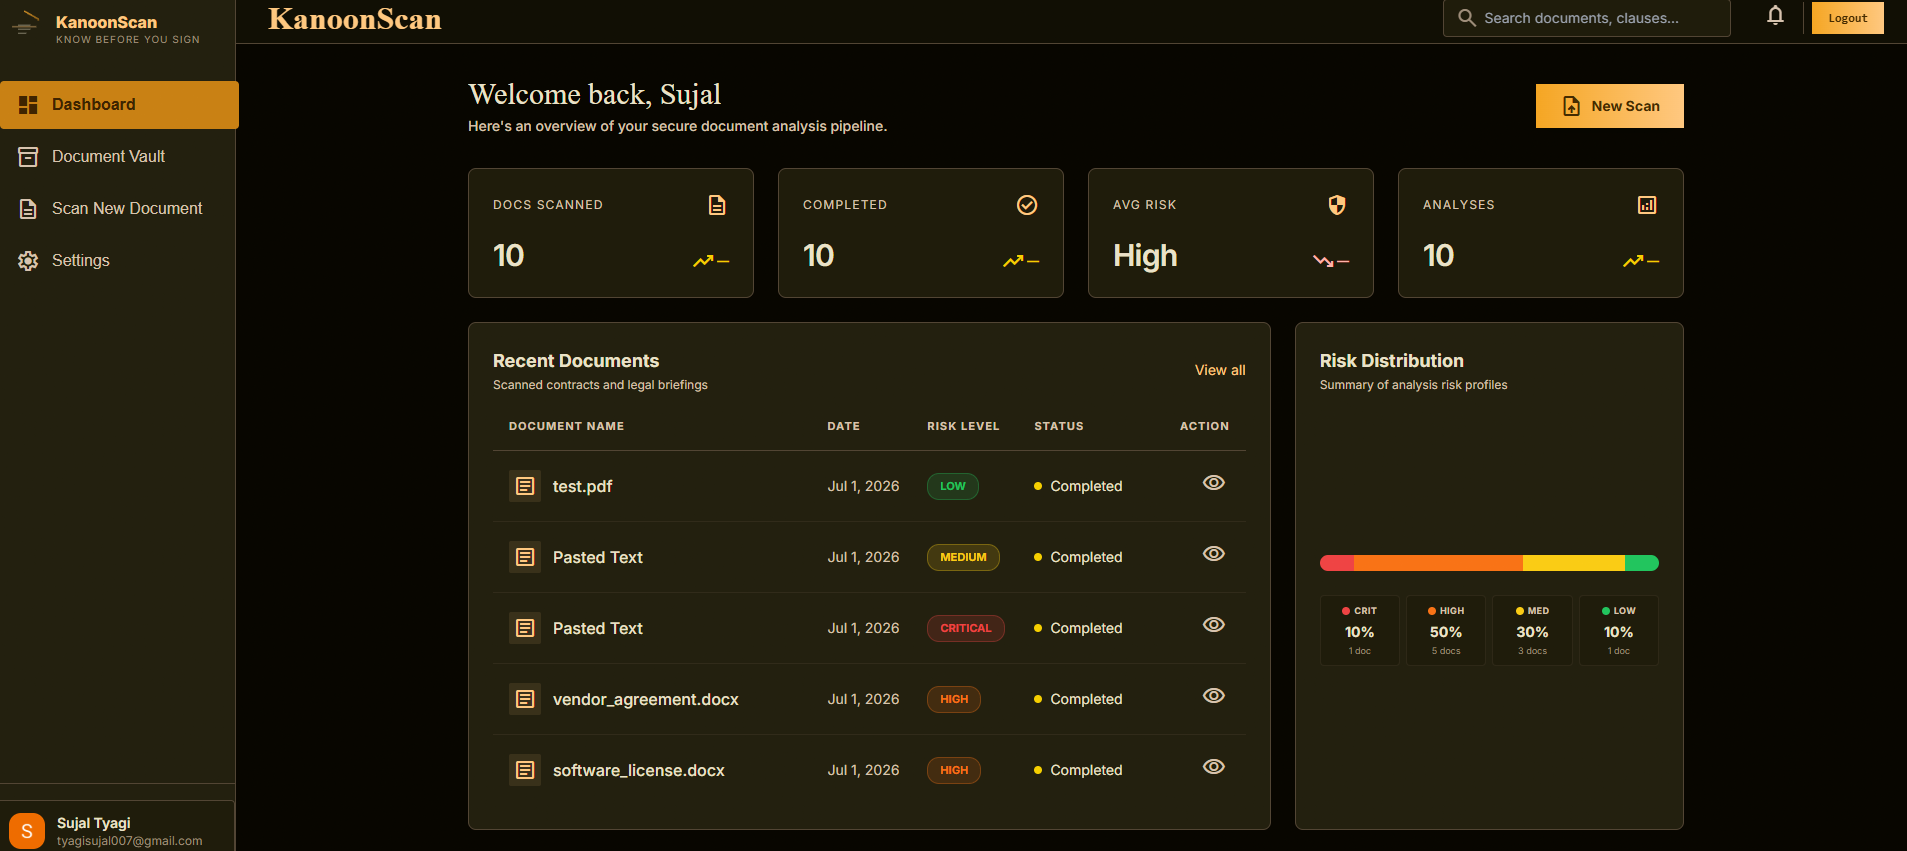
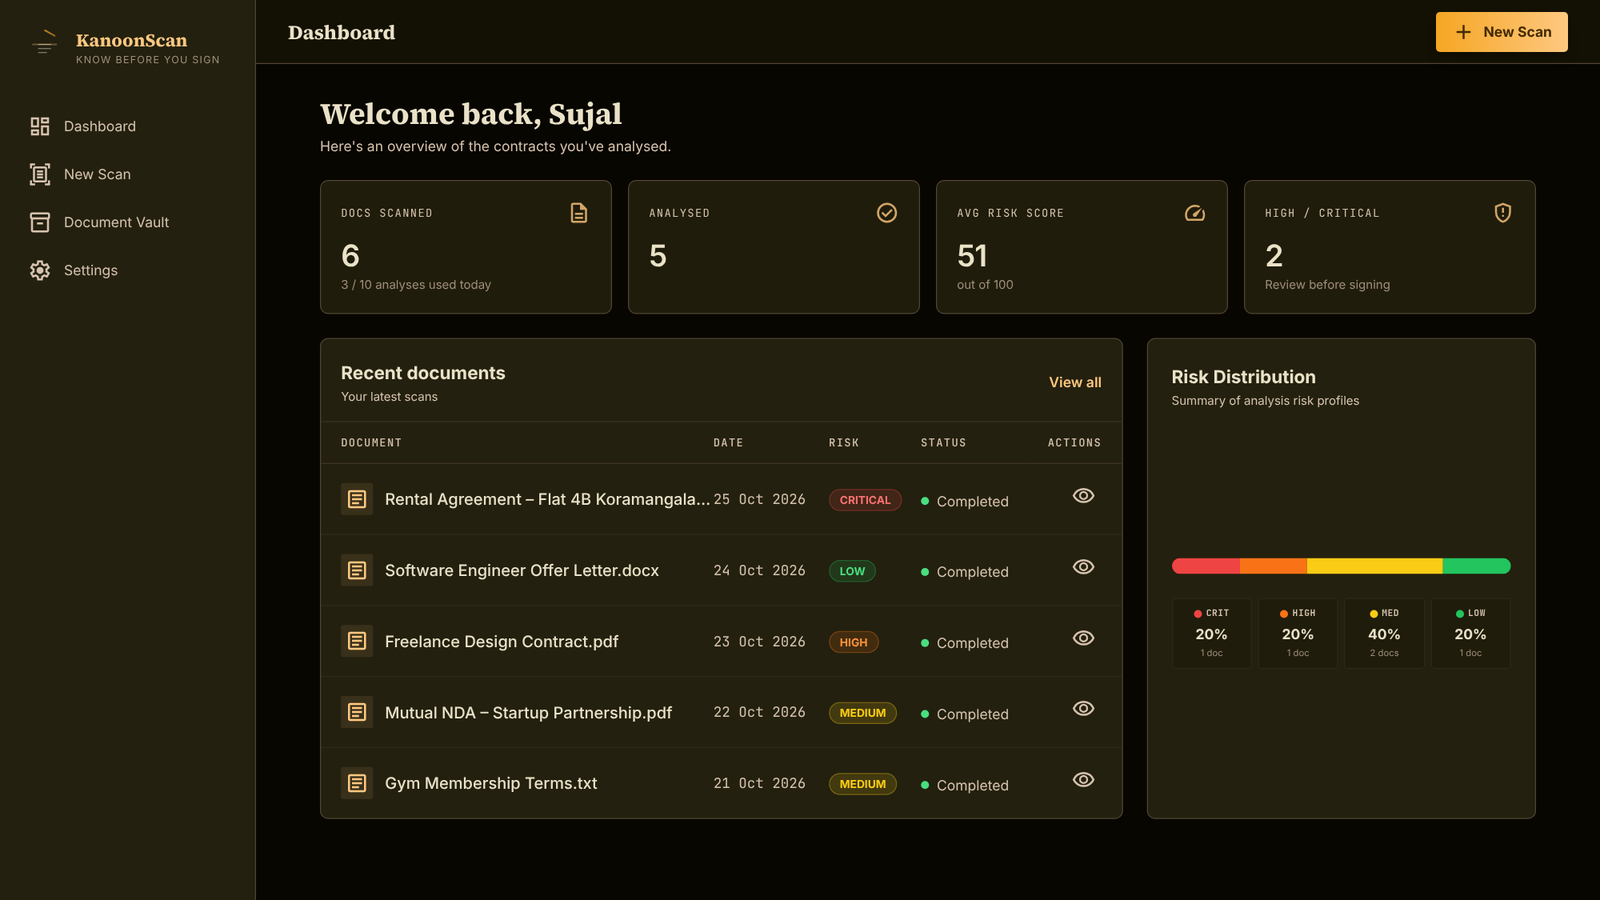
Rewrite README and refresh screenshots; add MIT license

diff --git a/README.md b/README.md
@@ -1,118 +1,193 @@
 # ⚖ KanoonScan
 
-> **Know Before You Sign**
-
-An AI-powered Legal Contract Analyzer that helps users understand legal agreements by identifying key clauses, assessing contractual risks, generating plain-English summaries, and producing professional legal reports.
+> **Know Before You Sign** — an AI contract analyser that flags risky clauses, explains them in plain English and tells you what to ask for before you sign.
 
 <p align="center">
-  <a href="https://kanoonscan.vercel.app/">
-    <img src="https://img.shields.io/badge/DEMO-LIVE-green?style=for-the-badge" alt="Demo Live" />
-  </a>
-  <img src="https://img.shields.io/badge/NEXT.JS-14-black?style=for-the-badge&logo=next.js" alt="Next.js" />
-  <img src="https://img.shields.io/badge/TYPESCRIPT-blue?style=for-the-badge&logo=typescript" alt="TypeScript" />
+  <a href="https://kanoonscan.vercel.app/"><img src="https://img.shields.io/badge/LIVE_DEMO-kanoonscan.vercel.app-f5a623?style=for-the-badge" alt="Live demo" /></a>
+</p>
+<p align="center">
+  <img src="https://img.shields.io/badge/Next.js_14-black?style=flat-square&logo=next.js" alt="Next.js" />
+  <img src="https://img.shields.io/badge/TypeScript-3178C6?style=flat-square&logo=typescript&logoColor=white" alt="TypeScript" />
+  <img src="https://img.shields.io/badge/MongoDB-47A248?style=flat-square&logo=mongodb&logoColor=white" alt="MongoDB" />
+  <img src="https://img.shields.io/badge/Clerk-6C47FF?style=flat-square&logo=clerk&logoColor=white" alt="Clerk" />
+  <img src="https://img.shields.io/badge/Tailwind_CSS-06B6D4?style=flat-square&logo=tailwindcss&logoColor=white" alt="Tailwind CSS" />
+  <img src="https://img.shields.io/badge/Groq_%7C_Gemini-AI-f5a623?style=flat-square" alt="Groq and Gemini" />
 </p>
 
----
-
-## 📸 Screenshots
-### Landing Page
-
-![Landing Page](public/screenshots/landing.png)
-
----
-### Dashboard
-
-![Dashboard](public/screenshots/dashboard.png)
+![KanoonScan landing page](public/screenshots/landing.png)
 
 ---
 
-### Contract Analysis
+## 📖 Overview
 
-![Analysis](public/screenshots/analysis.png)
+Most people sign rental agreements, offer letters and NDAs without reading every clause. KanoonScan reads the contract for you:
 
----
+1. **Upload** a PDF, DOCX or TXT file — or paste the text.
+2. **AI analysis** rates every clause from low to critical risk and gives the whole document a 0–100 risk score.
+3. **Review** a plain-English summary, who each clause favours, why it's risky and a suggested fairer alternative — then ask follow-up questions in chat.
 
-### Document Vault
-
-![Document Vault](public/screenshots/vault.png)
+Document text is encrypted at rest, and you can delete any document — or your whole account — at any time.
 
 ---
 
 ## ✨ Features
 
-* **AI Analysis**: Instantly detects and analyzes key legal clauses.
-* **Format Support**: Upload PDF, DOCX, and TXT agreements.
-* **Risk Scoring**: Provides a 0-100 score and assigns a low/medium/high/critical risk category.
-* **Plain English Summaries**: Translates complex legalese into clear text.
-* **Smart Actions**: Get recommendations, who benefits, and who is at risk.
-* **Document Vault**: Save, manage, and delete analyzed contracts safely.
-* **PDF Reports**: Export results into clean, print-friendly reports.
-* **Shareable Links**: Turn on a read-only public link for any report (document text is never exposed), and turn it off any time.
-* **Fair-use Limits**: Per-user daily limits on AI analyses and chat messages protect the API budget.
+| | Feature | Details |
+|---|---|---|
+| 🔍 | **Clause-level risk analysis** | Every risky clause is extracted with its original text, risk level (low → critical), explanation, who benefits / who's at risk and a suggested fix |
+| 📊 | **Risk score & verdict** | 0–100 score, risk breakdown by category and an overall verdict (e.g. *Seek Legal Advice*) |
+| 🗣 | **Plain-English summary** | Legalese rewritten into short, readable explanations |
+| 🧾 | **Key details extraction** | Parties, dates, rent/payment terms, notice periods, renewal and governing law |
+| 💬 | **Chat with your contract** | Ask "Can I terminate early?" and get answers grounded in the document; history is saved |
+| ✍ | **Fairer clause drafts** | Generate an improved alternative for any risky clause |
+| 🔗 | **Shareable reports** | Turn on a read-only public link (document text is never exposed) and turn it off any time |
+| 📄 | **PDF export** | Download a clean, print-friendly report |
+| 🗂 | **Document vault** | Search, filter by risk, sort and delete past scans |
+| 🛡 | **Fair-use limits** | Per-user daily limits on AI analyses and chat messages |
+| 📱 | **Responsive UI** | Works on desktop and mobile |
+
+---
+
+## 📸 Screenshots
+
+### Dashboard
+![Dashboard](public/screenshots/dashboard.png)
+
+### Contract Analysis
+![Contract analysis report](public/screenshots/analysis.png)
+
+### Document Vault
+![Document vault](public/screenshots/vault.png)
 
 ---
 
 ## 🛠 Tech Stack
 
-- **Frontend:** Next.js 14, TypeScript, Tailwind CSS
-- **Backend:** Next.js App Router
-- **Database:** MongoDB
-- **Authentication:** Clerk
-- **AI Models:** Google Gemini, Groq (Llama)
-- **Document Parsing:** PDF.js, Mammoth
-- **File Uploads:** UploadThing
+| Layer | Technology |
+|---|---|
+| Framework | Next.js 14 (App Router), React 18, TypeScript |
+| Styling | Tailwind CSS, Three.js (landing animation) |
+| Auth | Clerk (sign-up, login, account management) |
+| Database | MongoDB Atlas (native driver, `$jsonSchema` validation) |
+| AI | Groq (Llama 3.3 70B and others) with Google Gemini 2.5 fallback |
+| Document parsing | unpdf (serverless pdf.js), Mammoth (DOCX) |
+| Hosting | Vercel |
 
 ---
 
-## 📊 Risk Levels
+## 🧠 How It Works
 
-| Level | Description |
-|--------|-------------|
-| 🟢 Low | Standard commercial terms with minimal legal concerns |
-| 🟡 Medium | Clauses that should be reviewed before signing |
-| 🟠 High | Significant contractual risks requiring attention |
-| 🔴 Critical | Serious legal concerns requiring professional review |
-
----
-
-## 🚀 Getting Started
-
-```bash
-git clone https://github.com/Sujal-tyagi17/Kanoon-Scan.git
-cd Kanoon-Scan
-npm install
-cp .env.example .env.local   # fill in the values
-npm run dev
+```mermaid
+flowchart LR
+    A[Upload PDF / DOCX / TXT<br/>or paste text] --> B[Extract text<br/>unpdf · mammoth]
+    B --> C[Encrypt AES-256<br/>store in MongoDB]
+    C --> D{AI fallback chain}
+    D -->|1| E[Groq models]
+    D -->|2| F[Gemini models]
+    E --> G[Validate & normalise JSON]
+    F --> G
+    G --> H[Report: score, verdict,<br/>clauses, categories]
+    H --> I[Chat · Drafts · Share · Export]
 ```
 
-| Variable | Purpose |
-|----------|---------|
-| `NEXT_PUBLIC_CLERK_PUBLISHABLE_KEY`, `CLERK_SECRET_KEY` | Clerk authentication |
-| `DATABASE_URL` | MongoDB connection string (use the `mongodb+srv://` form, with a database name) |
-| `GROQ_API_KEY`, `GEMINI_API_KEY` | AI providers (at least one required) |
-| `ENCRYPTION_KEY` | Secret for encrypting document text at rest — set once, never change |
-| `WEBHOOK_SECRET` | Optional Clerk webhook secret |
-| `GROQ_MODELS`, `GEMINI_MODELS` | Optional comma-separated model overrides |
-| `DAILY_ANALYSIS_LIMIT`, `DAILY_CHAT_LIMIT` | Optional per-user daily limits (default 10 and 50, reset at midnight IST) |
+- **Resilient AI:** each model is tried in turn; any failure (rate limit, request too large, retired model) moves on to the next. Long documents go to Gemini first because of its larger context window. Model names can be changed with environment variables, without code changes.
+- **Consistent output:** the AI's JSON is parsed defensively, risk labels are normalised to `LOW / MEDIUM / HIGH / CRITICAL`, and scores are clamped to 0–100 before saving.
+- **Fair use:** daily limits are counted atomically in MongoDB, reset at midnight IST, and refunded automatically when the AI call fails.
 
-`GET /api/health` reports which variables are set (yes/no only) and whether MongoDB is reachable.
+---
+
+## 🔐 Security & Privacy
+
+- **Authentication** with Clerk; every API route checks the session and that the user owns the requested document.
+- **Encryption at rest:** document text is encrypted with AES-256 before it's stored, and decrypted only in memory.
+- **Public links** use random 144-bit tokens, show only the report (never the full document) and are excluded from search engines.
+- **Right to erasure:** deleting your account removes all documents, analyses, chats, logs and your Clerk login.
+- **Audit log** of uploads, analyses, deletions and sharing changes.
 
 ---
 
 ## 🗄 Database Schema
 
-MongoDB is schemaless, so the schema is enforced with `$jsonSchema` validators and indexes defined in [`lib/db/schema.ts`](lib/db/schema.ts). They are applied automatically on the first connection; you can also run [`scripts/mongo-schema.js`](scripts/mongo-schema.js) in mongosh.
+MongoDB is schemaless, so the schema is enforced with `$jsonSchema` validators and indexes defined in [`lib/db/schema.ts`](lib/db/schema.ts). They're applied automatically on the first connection; you can also run [`scripts/mongo-schema.js`](scripts/mongo-schema.js) in mongosh.
 
 | Collection | Key fields | Indexes |
-|------------|-----------|---------|
+|---|---|---|
 | `users` | clerkId, email, name | clerkId (unique) |
 | `documents` | userId, name, type, rawText (encrypted), status | userId + createdAt |
-| `analyses` | documentId, riskScore (0–100), riskLevel, summary, verdict, keyInformation | documentId (unique) |
+| `analyses` | documentId, riskScore (0–100), riskLevel, summary, verdict, keyInformation, shareToken | documentId (unique), shareToken (unique) |
 | `clauses` | analysisId, title, originalText, riskLevel, suggestion, isSaved | analysisId + position |
 | `riskCategories` | analysisId, name, score, level | analysisId |
 | `chats` | analysisId, role (USER/ASSISTANT), message | analysisId + createdAt |
-| `audit_logs` | userId, action, details | userId + createdAt |
 | `rate_limits` | key (user:action:day), count, expiresAt | key (unique), expiresAt (TTL) |
+| `audit_logs` | userId, action, details | userId + createdAt |
+
+---
+
+## 🚀 Getting Started
+
+### Prerequisites
+- Node.js 18+
+- A [Clerk](https://clerk.com) application
+- A [MongoDB Atlas](https://www.mongodb.com/atlas) cluster (the free tier works)
+- An API key for [Groq](https://console.groq.com) and/or [Google AI Studio (Gemini)](https://aistudio.google.com)
+
+### Setup
+
+```bash
+git clone https://github.com/Sujal-tyagi17/Kanoon-Scan.git
+cd Kanoon-Scan
+npm install
+cp .env.example .env.local   # then fill in the values
+npm run dev                  # http://localhost:3000
+```
+
+### Environment variables
+
+| Variable | Required | Purpose |
+|---|---|---|
+| `NEXT_PUBLIC_CLERK_PUBLISHABLE_KEY` | ✅ | Clerk publishable key |
+| `CLERK_SECRET_KEY` | ✅ | Clerk secret key |
+| `DATABASE_URL` | ✅ | MongoDB connection string — use the `mongodb+srv://` form and include a database name, e.g. `…mongodb.net/kanoonscan?retryWrites=true&w=majority` |
+| `GROQ_API_KEY` / `GEMINI_API_KEY` | ✅ (at least one) | AI providers |
+| `ENCRYPTION_KEY` | ✅ | Long random secret for encrypting document text. Generate with `node -e "console.log(require('crypto').randomBytes(32).toString('hex'))"`. **Never change it once data exists.** |
+| `WEBHOOK_SECRET` | – | Clerk webhook signing secret (optional — users are also created on first sign-in) |
+| `GROQ_MODELS` / `GEMINI_MODELS` | – | Comma-separated model overrides |
+| `DAILY_ANALYSIS_LIMIT` / `DAILY_CHAT_LIMIT` | – | Per-user daily limits (default 10 and 50) |
+
+`GET /api/health` reports which variables are set (yes/no only, never the values) and whether MongoDB is reachable — useful after deploying.
+
+### Deploying to Vercel
+1. Import the repo into Vercel and add the environment variables above for **Production** and **Preview**.
+2. In MongoDB Atlas → **Network Access**, allow `0.0.0.0/0` (Vercel has no fixed IP addresses).
+3. Deploy, then open `/api/health` and check for `"ok": true`.
+
+---
+
+## 🔌 API Routes
+
+| Route | Method | Description |
+|---|---|---|
+| `/api/process-document` | POST | Upload a file, extract and encrypt its text |
+| `/api/analyze-text` | POST | Create a document from pasted text |
+| `/api/analyze` | POST | Run the AI analysis for a document |
+| `/api/chat` | POST | Ask a question about an analysed document |
+| `/api/clauses/save` | POST | Bookmark or unbookmark a clause |
+| `/api/share` | POST | Turn a report's public link on or off |
+| `/api/documents/delete` | POST | Delete a document and everything linked to it |
+| `/api/user/delete-account` | POST | Delete all of a user's data and their login |
+| `/api/webhooks/clerk` | POST | Sync Clerk user events (signature-verified) |
+| `/api/health` | GET | Configuration and database health check |
+
+---
+
+## 📊 Risk Levels
+
+| Level | Meaning |
+|---|---|
+| 🟢 **Low** | Standard commercial terms with minimal concern |
+| 🟡 **Medium** | Worth reviewing before signing |
+| 🟠 **High** | Significant risk — negotiate this clause |
+| 🔴 **Critical** | Serious concern — consider professional legal review |
 
 ---
 
@@ -120,27 +195,35 @@ MongoDB is schemaless, so the schema is enforced with `$jsonSchema` validators a
 
 ```text
 app/
-  (auth)/           sign-in & sign-up pages (Clerk)
-  (dashboard)/      dashboard, scan, vault, analysis report, settings
-  api/              analyze, chat, documents, webhooks, health
-components/         UI (landing, dashboard shell, uploader, dialogs)
+  (auth)/              sign-in & sign-up pages (Clerk)
+  (dashboard)/         dashboard, scan, analysing, vault, analysis report, settings
+  share/[token]/       public read-only shared reports
+  api/                 analyze, chat, documents, share, webhooks, health
+components/            landing visuals, dashboard shell, uploader, share panel, dialogs
 lib/
-  auth.ts           get-or-create the MongoDB user for the Clerk session
-  db/               connection, schema validators, audit log
-  groq/analyze.ts   AI analysis with Groq → Gemini fallback chain
-  gemini/           document chat
-  encryption.ts     AES-256 encryption of document text
-scripts/            mongosh schema script
+  auth.ts              get-or-create the MongoDB user for the Clerk session
+  db/                  connection, schema validators, audit log
+  groq/analyze.ts      AI analysis with Groq → Gemini fallback chain
+  gemini/              document chat
+  rate-limit.ts        per-user daily limits
+  encryption.ts        AES-256 encryption of document text
+scripts/               mongosh schema script
 ```
+
+---
+
+## ⚠ Disclaimer
+
+KanoonScan provides AI-generated analysis for informational purposes only. It is not a law firm and does not provide legal advice. Always consult a qualified lawyer before making important legal decisions.
 
 ---
 
 ## 👨💻 Author
 
-**Sujal Tyagi**
+**Sujal Tyagi** — [GitHub @Sujal-tyagi17](https://github.com/Sujal-tyagi17)
 
 ---
 
 ## 📄 License
 
-This project is licensed under the MIT License.
+This project is licensed under the [MIT License](LICENSE).
